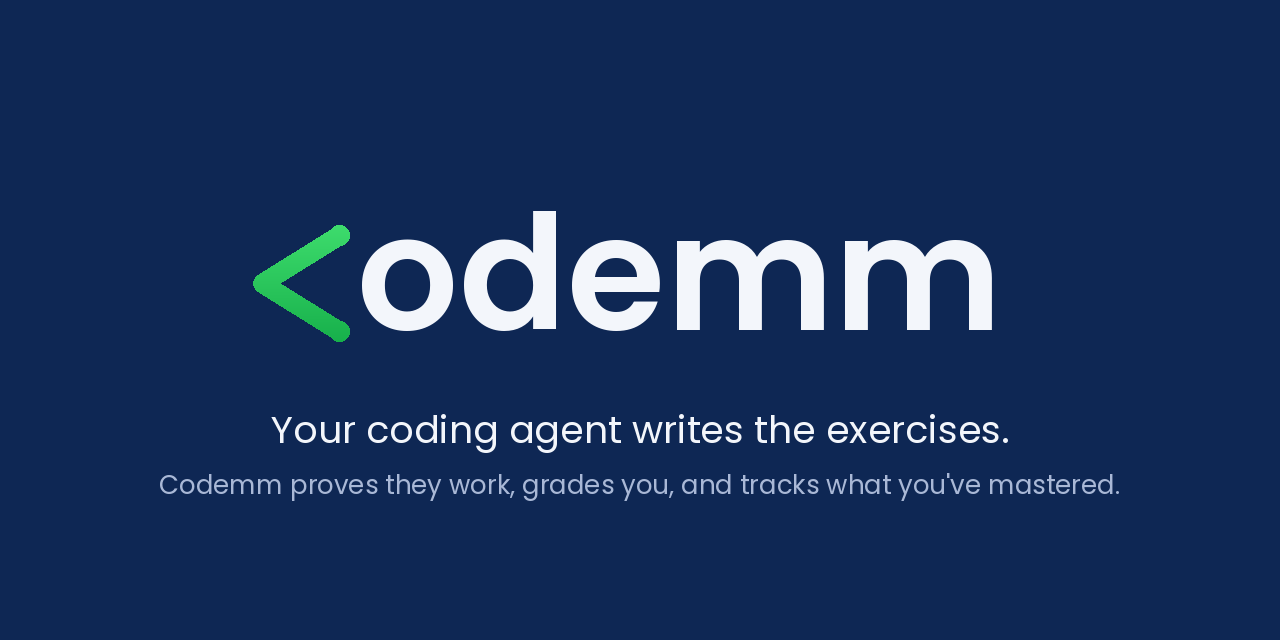
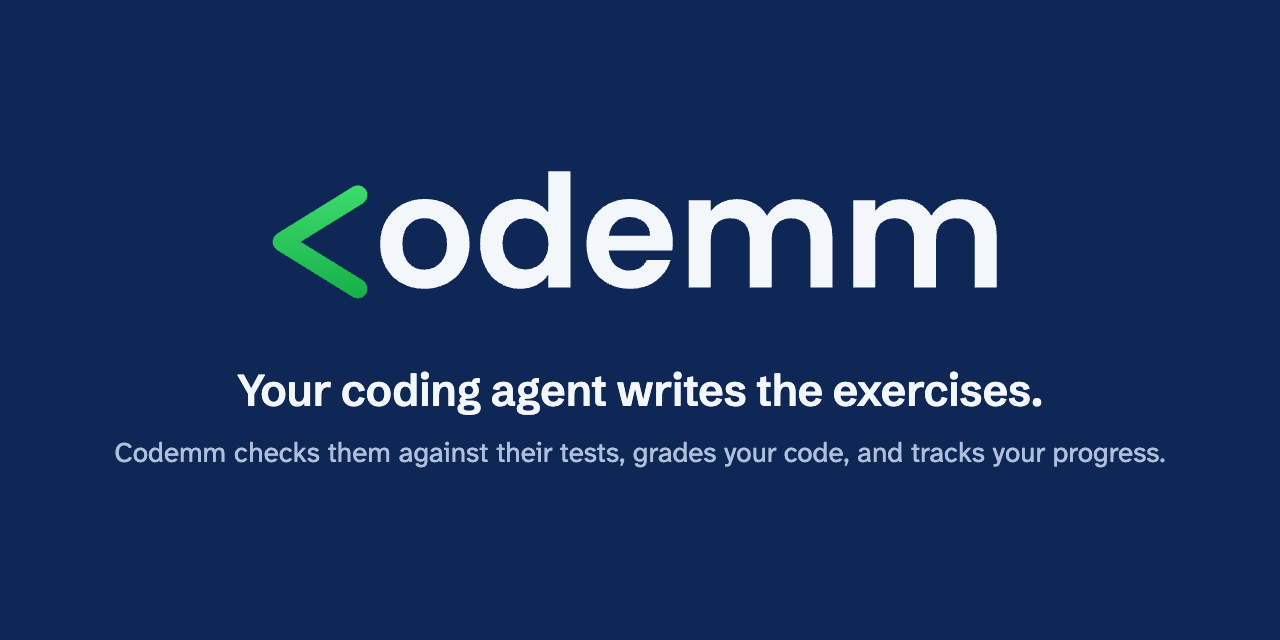
Site: honest copy, both Mac builds when the chip is unknown, still under reduced motion
From Astra's product review, each finding verified first:
- With reduced motion, clicking an agent started three Web Animations. Emm's
  colors still change, but nothing moves now; a fake-DOM test checks it.
- An unknown Mac chip (Safari, Firefox) was mapped to Apple Silicon, so Intel
  Macs got the wrong main button. Both Mac builds are now equal choices, with
  a line on how to tell them apart.
- The copy said exercises were 'proven' and that tests catch 'every broken
  version'. It now says what Codemm checks: each exercise against its tests,
  which must reject the incorrect versions the agent wrote. 'On your own plan'
  is now 'with your own account'. The social image drops 'proves they work'.

Changed region(s): [[0.1875, 0.25, 0.7812, 0.5312], [0.0938, 0.5625, 0.9062, 0.7812]]

diff --git a/site/test/release.test.js b/site/test/release.test.js
@@ -75,45 +75,54 @@ test('no published release means coming soon', () => {
   assert.deepEqual(downloads(null, { os: 'mac', arch: null }), { status: 'soon' });
 });
 
-const byId = (d) => [d.primary?.id, ...d.others.map((o) => o.id)];
+const ids = (list) => list.map((i) => i.id);
 
-test('a Mac with an unknown chip gets Apple Silicon first and Intel next', () => {
+test('a Mac whose chip is unknown gets Apple Silicon and Intel as equal choices', () => {
+  // Safari and Firefox never report the chip, so guessing would hand Intel Macs the wrong build.
   const d = downloads(release('v1.0.0-beta.1'), { os: 'mac', arch: null });
   assert.equal(d.status, 'ready');
   assert.equal(d.version, '1.0.0-beta.1');
   assert.equal(d.beta, true);
-  assert.deepEqual(byId(d), ['mac-arm64', 'mac-x64', 'win-x64']);
-  assert.equal(d.primary.url, 'https://github.com/iignaite/Codemm/releases/download/x/Codemm-1.0.0-beta.1-mac-arm64.dmg');
+  assert.deepEqual(ids(d.primaries), ['mac-arm64', 'mac-x64']);
+  assert.deepEqual(ids(d.others), ['win-x64']);
+  assert.equal(d.primaries[0].url, 'https://github.com/iignaite/Codemm/releases/download/x/Codemm-1.0.0-beta.1-mac-arm64.dmg');
 });
 
-test('an Intel Mac gets the Intel build first', () => {
-  const d = downloads(release('v1.0.0'), { os: 'mac', arch: 'x86' });
-  assert.equal(d.beta, false);
-  assert.deepEqual(byId(d), ['mac-x64', 'mac-arm64', 'win-x64']);
+test('a Mac that reports its chip gets that build alone as the main button', () => {
+  const arm = downloads(release('v1.0.0'), { os: 'mac', arch: 'arm' });
+  assert.equal(arm.beta, false);
+  assert.deepEqual(ids(arm.primaries), ['mac-arm64']);
+  assert.deepEqual(ids(arm.others), ['mac-x64', 'win-x64']);
+  const intel = downloads(release('v1.0.0'), { os: 'mac', arch: 'x86' });
+  assert.deepEqual(ids(intel.primaries), ['mac-x64']);
+  assert.deepEqual(ids(intel.others), ['mac-arm64', 'win-x64']);
 });
 
 test('Windows gets the Windows installer first', () => {
   const d = downloads(release('v1.0.0'), { os: 'windows', arch: null });
-  assert.deepEqual(byId(d), ['win-x64', 'mac-arm64', 'mac-x64']);
-  assert.equal(d.primary.url.endsWith('win-x64.exe'), true);
+  assert.deepEqual(ids(d.primaries), ['win-x64']);
+  assert.deepEqual(ids(d.others), ['mac-arm64', 'mac-x64']);
+  assert.equal(d.primaries[0].url.endsWith('win-x64.exe'), true);
 });
 
-test('other devices get no primary button, and every installer listed', () => {
+test('other devices get no main button, and every installer listed', () => {
   const d = downloads(release('v1.0.0'), { os: 'other', arch: null });
-  assert.equal(d.primary, null);
-  assert.deepEqual(d.others.map((o) => o.id), ['mac-arm64', 'mac-x64', 'win-x64']);
+  assert.deepEqual(d.primaries, []);
+  assert.deepEqual(ids(d.others), ['mac-arm64', 'mac-x64', 'win-x64']);
 });
 
 test('a release missing the matching installer offers what it has', () => {
   const r = release('v1.0.0', { assets: [asset('Codemm-1.0.0-win-x64.exe'), asset('Codemm-1.0.0-win-x64.exe.blockmap')] });
   const d = downloads(r, { os: 'mac', arch: 'arm' });
-  assert.equal(d.primary, null);
-  assert.deepEqual(d.others.map((o) => o.id), ['win-x64']);
+  assert.deepEqual(d.primaries, []);
+  assert.deepEqual(ids(d.others), ['win-x64']);
+  const half = downloads(release('v1.0.0', { assets: [asset('Codemm-1.0.0-mac-arm64.dmg')] }), { os: 'mac', arch: null });
+  assert.deepEqual(ids(half.primaries), ['mac-arm64']);
 });
 
 test('every download button is the release asset itself, so GitHub counts each download', () => {
   const r = release('v1.0.0');
   const d = downloads(r, { os: 'mac', arch: null });
-  const urls = [d.primary.url, ...d.others.map((o) => o.url)];
+  const urls = [...d.primaries, ...d.others].map((i) => i.url);
   assert.deepEqual(urls.sort(), r.assets.map((a) => a.browser_download_url).sort());
 });

diff --git a/site/public/index.html b/site/public/index.html
@@ -57,7 +57,7 @@
     <section class="hero wrap" aria-labelledby="title">
       <div class="hero-text">
         <h1 id="title">Supercharge your learning with Codemm.</h1>
-        <p class="lead">Lessons and exercises from your own coding agent, proven and graded by Codemm. Free and open source, for Mac and Windows.</p>
+        <p class="lead">Your own coding agent writes the lessons and exercises. Codemm checks each exercise against its tests and grades your code. Free and open source, for Mac and Windows.</p>
 
         <div class="download hero-download" id="get" data-download>
           <a class="btn primary big" href="https://github.com/iignaite/Codemm/releases">
@@ -65,7 +65,7 @@
             <span class="btn-detail">From GitHub Releases</span>
           </a>
         </div>
-        <p class="source">Works with Claude Code, Codex or Cursor, on your own plan.</p>
+        <p class="source">Works with Claude Code, Codex or Cursor, with your own account.</p>
       </div>
 
       <div class="orbit">
@@ -173,11 +173,11 @@
 
     <section class="proof" aria-labelledby="proof">
       <div class="wrap">
-        <h2 id="proof" class="center-title">Every exercise is proven before you see it.</h2>
+        <h2 id="proof" class="center-title">Every exercise is checked before you see it.</h2>
         <ul class="proof-list">
           <li>The reference solution passes.</li>
           <li>The starter code fails.</li>
-          <li>The tests catch every broken version.</li>
+          <li>The tests reject the incorrect versions your agent wrote.</li>
         </ul>
         <p class="proof-note">Your code is graded in a sandbox, with the network off.</p>
       </div>
@@ -198,7 +198,7 @@
           </li>
           <li>
             <h3>A coding agent</h3>
-            <p>Claude Code, Codex or Cursor, signed in, on your own plan. You choose the model.</p>
+            <p>Claude Code, Codex or Cursor, signed in with your own account. You choose the model.</p>
           </li>
         </ul>
       </div>
@@ -208,7 +208,7 @@
       <div class="wrap final-in">
         <img class="final-mark" src="/favicon.svg" alt="" width="64" height="64">
         <h2 id="final">Start learning with Codemm.</h2>
-        <p class="center-lead">Codemm launches your agent, on your own plan, with the model you choose. It never calls a model API, and never reads, stores or asks for your credentials.</p>
+        <p class="center-lead">Codemm launches your agent, with your own account and the model you choose. It never calls a model API, and never reads, stores or asks for your credentials.</p>
         <div class="download" data-download>
           <a class="btn primary big" href="https://github.com/iignaite/Codemm/releases">
             <span class="btn-label">Download</span>

diff --git a/site/test/hero.test.js b/site/test/hero.test.js
@@ -1,0 +1,48 @@
+import { test } from 'node:test';
+import assert from 'node:assert/strict';
+
+// A minimal page for public/hero.js: one orbit, three agent names, and a
+// reduced-motion preference. Every element records the animations it starts.
+function element() {
+  const el = {
+    animations: [],
+    listeners: {},
+    dataset: {},
+    hidden: false,
+    offsetWidth: 80,
+    offsetHeight: 40,
+    style: { props: {}, setProperty(k, v) { this.props[k] = v; } },
+    classList: { toggle() {} },
+    animate(...args) { el.animations.push(args); },
+    addEventListener(type, fn) { (el.listeners[type] ??= []).push(fn); },
+    setAttribute() {},
+    getBoundingClientRect: () => ({ left: 0, top: 0, width: 400, height: 200 }),
+  };
+  return el;
+}
+
+async function loadWith({ reduced }) {
+  const orbit = element();
+  const parts = { '.orbit-scene': element(), '.orbit-ring': element(), '.core': element(), '.emm': element(), '.motion': element() };
+  const agents = [element(), element(), element()];
+  orbit.querySelector = (q) => parts[q];
+  orbit.querySelectorAll = (q) => (q === '.agent' ? agents : []);
+  Object.assign(globalThis, {
+    document: { querySelector: (q) => (q === '.orbit' ? orbit : null), hidden: false },
+    matchMedia: () => ({ matches: reduced, addEventListener() {} }),
+    requestAnimationFrame: () => 0,
+    IntersectionObserver: class { observe() {} },
+    addEventListener() {},
+    getComputedStyle: () => ({ boxShadow: 'none' }),
+  });
+  await import(`../public/hero.js?${Math.random()}`);
+  return { orbit, parts, agents };
+}
+
+test('with reduced motion, clicking an agent changes Emm\'s colors and starts no animation', async () => {
+  const { orbit, parts, agents } = await loadWith({ reduced: true });
+  for (const fn of agents[0].listeners.click) fn();
+  assert.equal(orbit.style.props['--emm-b'], '#E8875F');
+  const started = [orbit, ...Object.values(parts), ...agents].flatMap((el) => el.animations);
+  assert.deepEqual(started, []);
+});

diff --git a/site/public/main.js b/site/public/main.js
@@ -49,10 +49,13 @@ function content(d) {
       el('a', { className: 'btn secondary', href: REPO }, 'Codemm on GitHub'))];
   }
   const parts = [];
-  if (d.primary) {
-    parts.push(el('a', { className: 'btn primary big', href: safe(d.primary.url) },
-      el('span', { className: 'btn-label' }, d.primary.label),
-      el('span', { className: 'btn-detail' }, d.primary.detail)));
+  if (d.primaries.length) {
+    parts.push(el('div', { className: 'primaries' }, ...d.primaries.map((i) =>
+      el('a', { className: 'btn primary big', href: safe(i.url) },
+        el('span', { className: 'btn-label' }, i.label),
+        el('span', { className: 'btn-detail' }, i.detail)))));
+    // Both Mac builds: the browser didn't say which chip this Mac has.
+    if (d.primaries.length > 1) parts.push(el('p', { className: 'chip-hint' }, 'About This Mac shows Chip on Apple Silicon and Processor on Intel.'));
   } else {
     parts.push(el('p', { className: 'desktop-only' }, 'Codemm is a desktop app for a Mac or a Windows PC.'));
   }
@@ -60,7 +63,7 @@ function content(d) {
   if (d.beta) version.append(el('span', { className: 'pill' }, 'Beta'));
   parts.push(version);
   if (d.others.length) {
-    const others = el('p', { className: 'others' }, el('span', {}, d.primary ? 'Also for' : 'Download for'));
+    const others = el('p', { className: 'others' }, el('span', {}, d.primaries.length ? 'Also for' : 'Download for'));
     for (const o of d.others) others.append(el('a', { href: safe(o.url) }, o.name));
     parts.push(others);
   }

diff --git a/site/public/release.js b/site/public/release.js
@@ -50,16 +50,19 @@ export function pickRelease(releases) {
 export function downloads(release, platform) {
   if (!release) return { status: 'soon' };
   const all = installersIn(release);
-  // Unknown Mac chips get Apple Silicon: every Mac sold since 2023 has it.
-  const want = platform.os === 'mac' ? (platform.arch === 'x86' ? 'mac-x64' : 'mac-arm64') : platform.os === 'windows' ? 'win-x64' : null;
-  const primary = all.find((i) => i.id === want) ?? null;
-  const others = all.filter((i) => i !== primary).sort((a, b) => (b.os === platform.os) - (a.os === platform.os));
+  // A Mac whose chip the browser doesn't report (Safari, Firefox) gets both Mac
+  // builds as equal choices: guessing would hand Intel Macs the wrong one.
+  const want = platform.os === 'mac'
+    ? (platform.arch === 'x86' ? ['mac-x64'] : platform.arch === 'arm' ? ['mac-arm64'] : ['mac-arm64', 'mac-x64'])
+    : platform.os === 'windows' ? ['win-x64'] : [];
+  const primaries = all.filter((i) => want.includes(i.id));
+  const others = all.filter((i) => !primaries.includes(i)).sort((a, b) => (b.os === platform.os) - (a.os === platform.os));
   return {
     status: 'ready',
     version: release.tag_name.replace(/^v/, ''),
     beta: Boolean(release.prerelease),
     url: release.html_url,
-    primary,
+    primaries,
     others,
   };
 }

diff --git a/site/test/build.test.js b/site/test/build.test.js
@@ -45,6 +45,12 @@ test('the site is static and collects no personal data', () => {
     assert.match(page, />Claude Code<\/button>/);
     assert.match(page, /Codemm isn't affiliated with or endorsed by them\./);
     assert.match(page, /provided as is, without warranty/);
+    // Say only what Codemm checks: exercises against their tests, which must reject the
+    // incorrect versions the agent wrote. Lessons aren't checked, and nothing is "proven".
+    assert.doesNotMatch(page, /\bprove[ns]?\b|\bproof that\b|every broken|own plan|guarantee/i);
+    assert.match(page, /checks each exercise against its tests/);
+    assert.match(page, /reject the incorrect versions your agent wrote/);
+    assert.match(page, /with your own account/);
     // The design rules allow no dots: no dotted or dashed strokes or borders.
     const css = readFileSync(join(out, 'styles.css'), 'utf8');
     assert.doesNotMatch(css, /stroke-dasharray|\b(dotted|dashed)\b/);

diff --git a/site/public/hero.js b/site/public/hero.js
@@ -44,6 +44,7 @@ if (orbit) {
     orbit.style.setProperty('--emm-d', d);
     orbit.style.setProperty('--emm-be', be);
     orbit.style.setProperty('--emm-s', st);
+    if (reduce.matches) return; // the colors change, but nothing moves
     core.animate([{ transform: 'scale(1)' }, { transform: 'scale(1.1)' }, { transform: 'scale(1)' }], { duration: 450, easing: 'ease-out' });
     core.animate([{ boxShadow: getComputedStyle(core).boxShadow }, { boxShadow: '0 0 0 10px rgb(61 219 108 / .35), 0 30px 60px -18px rgb(8 26 60 / .65)' }, { boxShadow: getComputedStyle(core).boxShadow }], { duration: 700, easing: 'ease-out' });
     emm.animate([{ transform: 'translateY(0) rotate(0)' }, { transform: 'translateY(-16px) rotate(-4deg)' }, { transform: 'translateY(0) rotate(0)' }], { duration: 560, easing: 'cubic-bezier(.3,1.6,.5,1)' });

diff --git a/site/public/styles.css b/site/public/styles.css
@@ -148,6 +148,9 @@ h1 { max-width: 11em; font-size: clamp(42px, 5.8vw, 74px); line-height: 1.02; le
 .page-emm { width: 120px; margin-bottom: 20px; }
 .download { display: flex; flex-direction: column; align-items: center; gap: 12px; margin-top: 36px; }
 .hero-download { align-items: flex-start; margin-top: 32px; }
+.primaries { display: flex; flex-wrap: wrap; gap: 12px; }
+.download:not(.hero-download) .primaries { justify-content: center; }
+.chip-hint { color: var(--muted); font-size: 14px; }
 .hero-download .version, .hero-download .others { justify-content: flex-start; }
 .soon { display: flex; flex-direction: column; gap: 10px; }
 .download:not(.hero-download) .soon { align-items: center; text-align: center; }

diff --git a/site/README.md b/site/README.md
@@ -12,7 +12,7 @@ test/     node:test suites
 
 - **The installers stay on GitHub Releases.** `public/main.js` reads the release list from the GitHub API in the visitor's browser, cached for 10 minutes in the tab, and links each installer straight to GitHub. Nothing is hosted on Vercel.
 - **Which release:** the newest published stable release, or the newest beta until there is one. Drafts are never shown.
-- **Which button:** the visitor's computer picks the main one (Apple Silicon Mac, Intel Mac, or Windows), with the others listed below it. Phones and Linux get every installer listed. A Mac whose chip the browser doesn't report gets Apple Silicon first, with Intel right below.
+- **Which button:** the visitor's computer picks the main one (Apple Silicon Mac, Intel Mac, or Windows), with the others listed below it. Phones and Linux get every installer listed. A Mac whose chip the browser doesn't report (Safari and Firefox never do) gets Apple Silicon and Intel as two equal buttons, with a line on how to tell them apart.
 - **Betas:** a beta release (a GitHub prerelease) shows a Beta label and the one-time steps to open an unsigned build.
 - **No published release** shows "Coming soon" with a link to the GitHub repository.
 - **GitHub unreachable:** the button links to the Releases page.
@@ -45,7 +45,7 @@ Then open http://localhost:4317.
 cd site && npm test
 ```
 
-The tests cover OS detection, which release and installer are offered, that every button is the asset's own GitHub URL, the no-release case, the build, and that the site stays static, with no forms and no tracking beyond Web Analytics. `.github/workflows/site.yml` runs them on pull requests that touch `site/`.
+The tests cover OS detection, the Mac chip choice, the copy (it says only what Codemm checks), that the orbit starts no animation with reduced motion, which release and installer are offered, that every button is the asset's own GitHub URL, the no-release case, the build, and that the site stays static, with no forms and no tracking beyond Web Analytics. `.github/workflows/site.yml` runs them on pull requests that touch `site/`.
 
 ## Deploy
 
